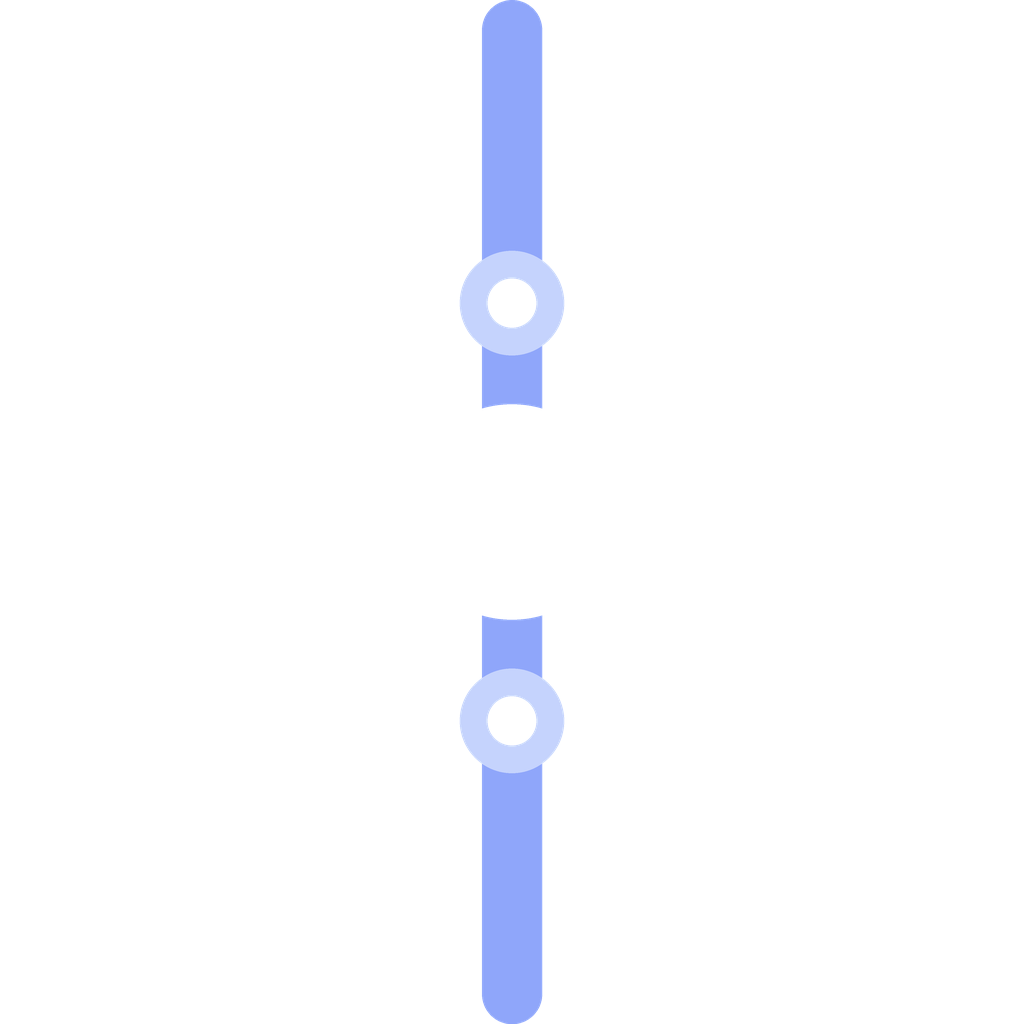
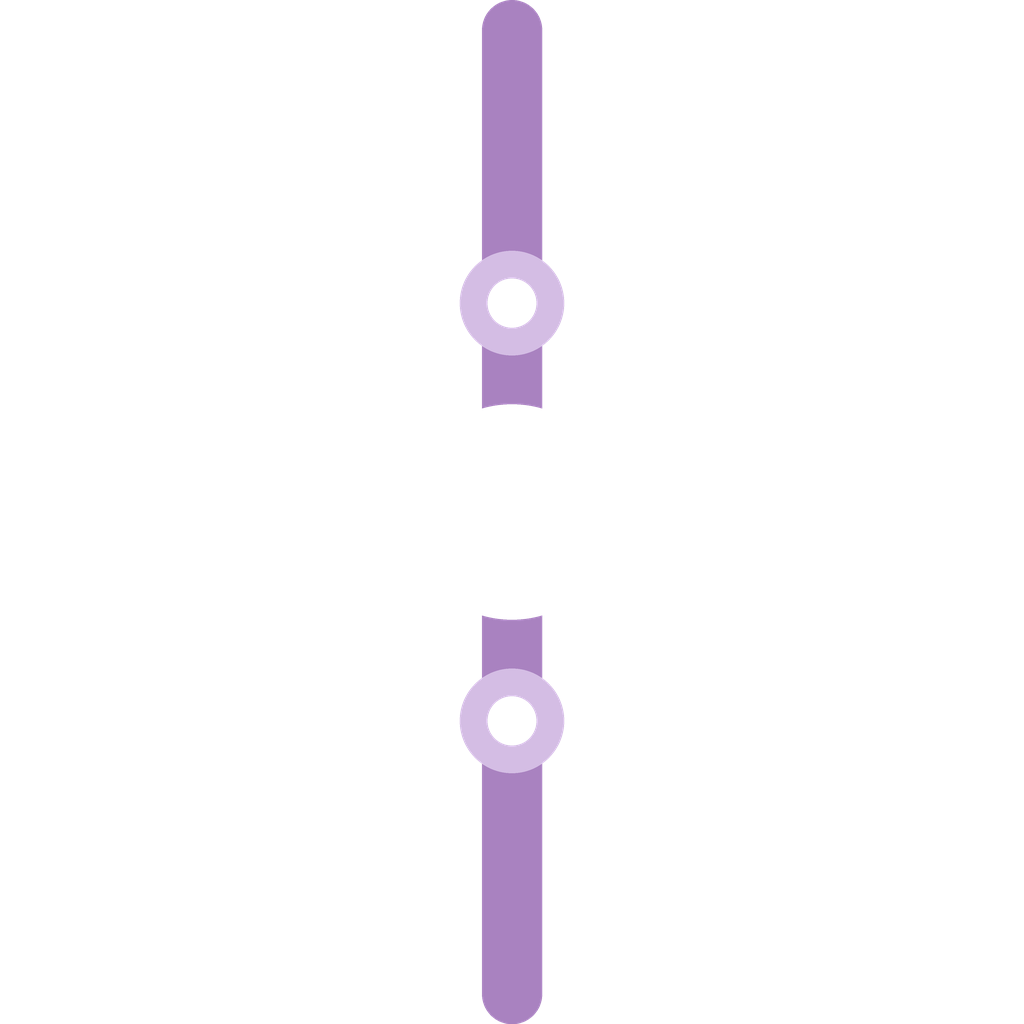
Brand colour: a plum-violet, chosen against the map
The hue was picked against the surface it has to live on rather than
against a mood board. A map already spends blue twice — the water, and the
"you are here" dot that every mapping SDK on both platforms draws in it.
The cobalt sat 15 degrees from that dot, which made the wake ring and the
passenger the same colour on the one screen where telling them apart is
the whole point. #6A2C91 sits 63 degrees away and cannot be confused with
either, and it is far from the green that means armed.

Being darker is the second reason, not a compromise. The arrival screen is
a full bleed of this colour seen at three in the morning by someone who
has just been woken, and a bright cobalt filling the display at that
moment is unkind. White on it is 8.82:1 — comfortably readable without
being a flashlight.

It is deliberately none of the #6366F1 / #7C3AED / #8B5CF6 violets every
generated app reaches for: deeper, less saturated, a specific value rather
than a framework default. Every ratio in colors.ts was recomputed, and the
dark scheme's partner (#B69CFF at 8.27:1) with it. The icon, the splash
and the notification tint follow.

92 tests pass; iOS, Android and web all bundle.

Claude-Session: https://claude.ai/code/session_01CPdQV6YmrWtwfsXmt9mQcc

Changed region(s): [[0.4375, 0.5938, 0.5625, 1.0], [0.4375, 0.0, 0.5625, 0.4062]]

diff --git a/hagaanu/src/theme/colors.ts b/hagaanu/src/theme/colors.ts
@@ -11,10 +11,21 @@
  * appears on exactly one thing per screen — the button you came to press — and
  * everything else is the neutral ramp.
  *
- * The blue is a cobalt with a slight violet lean, deliberately NOT the
- * #6366F1 / #8B5CF6 indigo that every generated app reaches for. It carries
- * white text at 6.09:1 and reads as text on the light ground at 5.73:1, so the
- * same token works as a fill and as a label without a second value.
+ * The brand is a plum-violet, and the hue was chosen against the MAP rather
+ * than against a mood board. A map already spends blue twice — the water, and
+ * the "you are here" dot that every mapping SDK on both platforms draws in it.
+ * The cobalt this replaced sat 15° from that dot, which made the wake ring and
+ * the passenger the same colour on the one screen where telling them apart is
+ * the entire point. This sits 63° away and cannot be confused with either.
+ *
+ * It is deliberately not one of the #6366F1 / #7C3AED / #8B5CF6 violets every
+ * generated app reaches for: deeper, less saturated, and a specific value
+ * rather than a framework default.
+ *
+ * Being dark is a feature, not a compromise. The arrival screen is a full bleed
+ * of this colour seen at three in the morning by someone who has just been
+ * woken, and a bright screen at that moment is unkind. White on it is 8.82:1,
+ * which is comfortably readable without being a flashlight.
  */
 
 export type Scheme = {
@@ -94,11 +105,11 @@ export const light: Scheme = {
   lineStrong: '#D3D8E0',
 
   primary: {
-    base: '#2B4EF0',
-    pressed: '#2340D6',
-    on: '#FFFFFF', //      6.09:1 on base
-    text: '#2B4EF0', //    5.73:1 on bg
-    soft: '#E4EAFD',
+    base: '#6A2C91',
+    pressed: '#5A2479',
+    on: '#FFFFFF', //      8.82:1 on base
+    text: '#6A2C91', //    8.30:1 on bg · 8.82:1 on surface
+    soft: '#F0E7F7', //    7.34:1 for the text on this tint
   },
 
   success: {
@@ -118,9 +129,9 @@ export const light: Scheme = {
   },
 
   alarm: {
-    bg: '#2B4EF0',
-    on: '#FFFFFF', //      6.09:1
-    dim: '#D5DDFF', //     4.53:1
+    bg: '#6A2C91',
+    on: '#FFFFFF', //      8.82:1
+    dim: '#E2D0F0', //     6.09:1
     line: 'rgba(255,255,255,0.26)',
   },
 
@@ -156,11 +167,11 @@ export const dark: Scheme = {
   lineStrong: '#333B47',
 
   primary: {
-    base: '#5B8BFF',
-    pressed: '#4C79EA',
-    on: '#0B1020', //      5.93:1 on base
-    text: '#5B8BFF', //    5.93:1 on bg
-    soft: 'rgba(91,139,255,0.14)',
+    base: '#B69CFF',
+    pressed: '#A084F0',
+    on: '#1C0B2E', //      8.08:1 on base
+    text: '#B69CFF', //    8.27:1 on bg
+    soft: 'rgba(182,156,255,0.15)',
   },
 
   success: {
@@ -180,9 +191,9 @@ export const dark: Scheme = {
   },
 
   alarm: {
-    bg: '#2B4EF0',
+    bg: '#6A2C91',
     on: '#FFFFFF',
-    dim: '#D5DDFF',
+    dim: '#E2D0F0',
     line: 'rgba(255,255,255,0.26)',
   },
 

diff --git a/hagaanu/app.config.ts b/hagaanu/app.config.ts
@@ -124,7 +124,7 @@ const config: ExpoConfig = {
       foregroundImage: './assets/android-icon-foreground.png',
       // The brand itself: the adaptive icon's mark is white, so the tile is
       // the colour rather than a dark ground the mark sits on.
-      backgroundColor: '#2B4EF0',
+      backgroundColor: '#6A2C91',
       monochromeImage: './assets/android-icon-monochrome.png',
     },
     permissions: [
@@ -167,7 +167,7 @@ const config: ExpoConfig = {
       'expo-notifications',
       {
         icon: './assets/notification-icon.png',
-        color: '#2B4EF0',
+        color: '#6A2C91',
         // Copies every tone into res/raw (Android) and the app bundle (iOS) so
         // the notification itself can play the one the user chose — including
         // when our JS process is gone by the time the notification is shown.

diff --git a/hagaanu/scripts/make-icons.py b/hagaanu/scripts/make-icons.py
@@ -24,14 +24,14 @@ from PIL import Image, ImageDraw
 SS = 4  # supersample factor
 
 # ── from src/theme/colors.ts ──────────────────────────────────────
-GROUND      = (0x2B, 0x4E, 0xF0)  # light.primary.base — the brand takes the tile
+GROUND      = (0x6A, 0x2C, 0x91)  # light.primary.base — the brand takes the tile
 ACCENT      = (0xFF, 0xFF, 0xFF)  # what sits on it, at 6.09:1
-ACCENT_DEEP = (0x2B, 0x4E, 0xF0)  # the mark itself, for light grounds
-RAIL_DIM    = (0x8F, 0xA6, 0xFA)  # the line, a lifted tint of the brand
+ACCENT_DEEP = (0x6A, 0x2C, 0x91)  # the mark itself, for light grounds
+RAIL_DIM    = (0xA9, 0x82, 0xC0)  # the line, a lifted tint of the brand
 LIGHT_BG    = (0xF7, 0xF8, 0xFA)  # light.bg
-RAIL_LIGHT  = (0xB9, 0xC6, 0xFB)
-STATION     = (0xC5, 0xD3, 0xFD)  # the stations, brighter than the line
-STATION_LIGHT = (0x93, 0xA9, 0xFA)
+RAIL_LIGHT  = (0xC8, 0xAE, 0xD8)
+STATION     = (0xD4, 0xBD, 0xE4)  # the stations, brighter than the line
+STATION_LIGHT = (0xA6, 0x7E, 0xBE)
 
 # ── proportions, as fractions of the canvas ───────────────────────
 # Three nodes on a line, which is the grammar every transit diagram in the world
